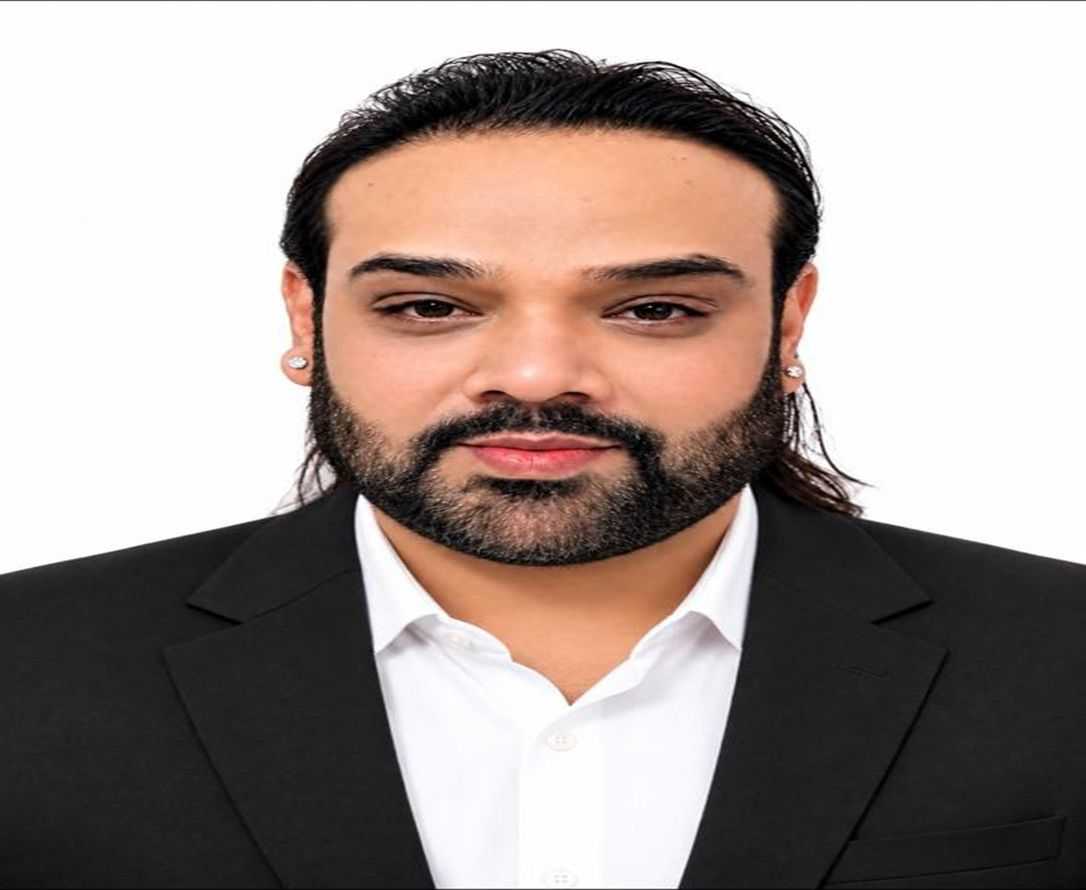
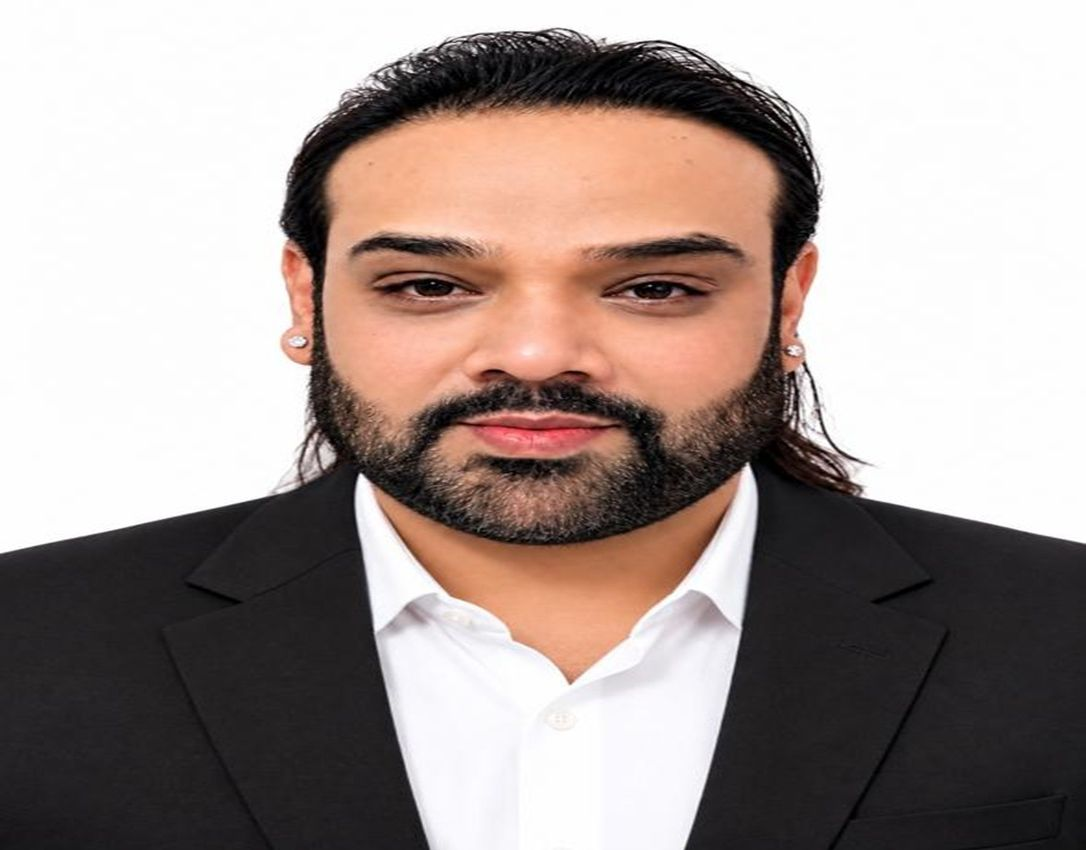
Simplify carousel to pure autoslide, tighten team heading, add hero image
- Carousel drops its prev/next buttons and dot indicators per request,
  now just auto-advances with a caption.
- Team page's top heading now uses a new .image-hero treatment (dark
  overlay over the Vishnu City Towers render) instead of a mostly-empty
  cream section.
- Re-cropped Bhaskar Dutt's photo with a larger margin — the previous
  crop landed right on the black-bar edge, leaving a compression seam.
- Verified stat caption/value font sizes are already uniform across
  all four Abaxis stat cells (10.88px / 27.2px), and confirmed no
  horizontal overflow on any of the five linked pages at 375px and
  768px viewports.
- Bump style.css cache-bust to v=41.

diff --git a/team.html b/team.html
@@ -1,10 +1,10 @@
-<!doctype html><html lang="en"><head><meta charset="utf-8"><meta name="viewport" content="width=device-width,initial-scale=1"><title>Our Team | Vishnu Developers & Infrastructure</title><meta name="description" content="Meet the leadership of Vishnu Developers & Infrastructure and the design & project consultancy partner behind Vishnu City."><link rel="stylesheet" href="style.css?v=39"></head><body data-page="team"><a class="skip-link" href="#main">Skip to content</a><div id="site-header"></div><main id="main">
+<!doctype html><html lang="en"><head><meta charset="utf-8"><meta name="viewport" content="width=device-width,initial-scale=1"><title>Our Team | Vishnu Developers & Infrastructure</title><meta name="description" content="Meet the leadership of Vishnu Developers & Infrastructure and the design & project consultancy partner behind Vishnu City."><link rel="stylesheet" href="style.css?v=41"></head><body data-page="team"><a class="skip-link" href="#main">Skip to content</a><div id="site-header"></div><main id="main">
 
-<section class="section"><div class="shell"><h2>The Visionaries Behind Vishnu City</h2></div></section>
+<section class="image-hero"><img src="assets/vishnu-city/Towers.jpeg" alt=""><div class="shell"><h2>The Visionaries Behind Vishnu City</h2></div></section>
 
 <section class="section sand"><div class="shell two-col reveal"><div class="media-frame site-photo" style="aspect-ratio:1086/1448"><img src="assets/vishnu-city/Suresh Dutt Sharma.jpeg" alt="Dr. Suresh Dutt Sharma"></div><div><span class="eyebrow">Managing Director &amp; Proprietor</span><h3>Dr. Suresh Dutt Sharma, MBBS</h3><p>Dr. Suresh Dutt Sharma leads Vishnu Developers &amp; Infrastructure with a strong vision for responsible development, quality construction, and long-term value creation. His leadership focuses on delivering projects with a commitment to reliability, excellence, and customer satisfaction.</p></div></div></section>
 
-<section class="section"><div class="shell two-col reveal"><div class="media-frame site-photo" style="aspect-ratio:1086/890"><img src="assets/vishnu-city/bhaskar-dutt-sharma.jpg" alt="Adv. Bhaskar Dutt Sharma"></div><div><span class="eyebrow">Director &amp; CEO</span><h3>Adv. Bhaskar Dutt Sharma, B.Com, PGDIB, MBA, LLB</h3><p>Adv. Bhaskar Dutt Sharma combines expertise in business management, law, and corporate administration. As Director &amp; CEO, he plays a key role in strategic decision-making, business development, project management, and organizational growth, with a strong emphasis on transparency and professional excellence.</p></div></div></section>
+<section class="section"><div class="shell two-col reveal"><div class="media-frame site-photo" style="aspect-ratio:1086/850"><img src="assets/vishnu-city/bhaskar-dutt-sharma.jpg" alt="Adv. Bhaskar Dutt Sharma"></div><div><span class="eyebrow">Director &amp; CEO</span><h3>Adv. Bhaskar Dutt Sharma, B.Com, PGDIB, MBA, LLB</h3><p>Adv. Bhaskar Dutt Sharma combines expertise in business management, law, and corporate administration. As Director &amp; CEO, he plays a key role in strategic decision-making, business development, project management, and organizational growth, with a strong emphasis on transparency and professional excellence.</p></div></div></section>
 
 <section class="section sand"><div class="shell two-col reveal"><div class="media-frame site-photo" style="aspect-ratio:692/1009"><img src="assets/vishnu-city/Dr Ishwari Sharma.jpeg" alt="Dr. Ishwari Sharma"></div><div><span class="eyebrow">Director</span><h3>Dr. Ishwari Sharma, MBBS, DGO</h3><p>Dr. Ishwari Sharma brings a disciplined and people-oriented approach to the organization. As a Director, she contributes to the company's growth, strategic planning, and commitment to maintaining high standards across its projects and operations.</p></div></div></section>
 
@@ -51,11 +51,8 @@
 <img class="carousel-slide" src="assets/vishnu-city/ircon3.jpg" alt="IRCON International Ltd — Renovation of 8 Floors, IRCON Tower, Gurugram" data-caption="IRCON International Ltd — Renovation of 8 Floors, IRCON Tower, Gurugram">
 <img class="carousel-slide" src="assets/vishnu-city/BPCL.jpg" alt="Bharat Petroleum Corporation Ltd — Bhopal Office Renovation" data-caption="Bharat Petroleum Corporation Ltd — Bhopal Office Renovation">
 <img class="carousel-slide" src="assets/vishnu-city/BPCL1.jpg" alt="Bharat Petroleum Corporation Ltd — Bhopal Office Renovation" data-caption="Bharat Petroleum Corporation Ltd — Bhopal Office Renovation">
-<button class="carousel-btn prev" type="button" aria-label="Previous project photo">‹</button>
-<button class="carousel-btn next" type="button" aria-label="Next project photo">›</button>
 </div>
 <p class="carousel-caption"></p>
-<div class="carousel-dots"></div>
 </div><div><span class="eyebrow">Track record</span><h2>Notable Abaxis Projects</h2><div class="table-wrap"><table class="area-table"><thead><tr><th>Client</th><th>Project</th></tr></thead><tbody>
 <tr><td>FM Supply Chain Pvt Ltd</td><td>Siemens MAG Industry &amp; Office, Taloja, Mumbai</td></tr>
 <tr><td>Hindustan Petroleum Corporation Ltd</td><td>HPCL Office, Narouji Nagar, Delhi</td></tr>

diff --git a/style.css b/style.css
@@ -36,15 +36,13 @@
 .carousel-viewport{position:relative;overflow:hidden;border-radius:8px;aspect-ratio:3/2;background:var(--sand);box-shadow:18px 18px 0 var(--champagne)}
 .carousel-slide{position:absolute;inset:0;width:100%;height:100%;object-fit:cover;opacity:0;transition:opacity .5s ease;pointer-events:none}
 .carousel-slide.active{opacity:1;pointer-events:auto}
-.carousel-btn{position:absolute;top:50%;transform:translateY(-50%);width:42px;height:42px;border-radius:50%;border:0;background:rgba(11,31,51,.75);color:#fff;font-size:1.3rem;line-height:1;display:grid;place-items:center;cursor:pointer;z-index:2;transition:background .2s}
-.carousel-btn.prev{left:14px}
-.carousel-btn.next{right:14px}
-.carousel-btn:hover{background:var(--gold)}
 .carousel-caption{margin-top:1.1rem;font-weight:600;color:var(--navy);text-align:center;min-height:1.4em}
-.carousel-dots{display:flex;justify-content:center;gap:.5rem;margin-top:.75rem}
-.carousel-dots button{width:9px;height:9px;border-radius:50%;border:0;background:var(--border);cursor:pointer;padding:0}
-.carousel-dots button.active{background:var(--gold)}
-@media(max-width:760px){.carousel-btn{width:34px;height:34px;font-size:1rem}}
+.image-hero{position:relative;padding:6rem 0;overflow:hidden;background:var(--navy)}
+.image-hero img{position:absolute;inset:0;width:100%;height:100%;object-fit:cover;opacity:.45}
+.image-hero:after{content:"";position:absolute;inset:0;background:linear-gradient(180deg,rgba(11,31,51,.55),rgba(11,31,51,.85))}
+.image-hero .shell{position:relative;z-index:1}
+.image-hero h2{color:#fff;margin:0}
+@media(max-width:760px){.image-hero{padding:4rem 0}}
 @keyframes heroScale{from{transform:scale(1) translate(0,0)}to{transform:scale(1.12) translate(-2%,-2%)}}@media(max-width:1100px){.site-header nav{position:absolute;top:100%;left:0;right:0;background:var(--ivory);display:none;flex-direction:column;align-items:stretch;padding:1rem 24px;border-bottom:1px solid var(--border)}.site-header nav.open{display:flex}.site-header nav a{padding:.7rem}.menu-toggle{display:block;margin-left:auto}.grid-4{grid-template-columns:repeat(2,1fr)}}@media(max-width:760px){body{padding-top:74px}.footer{padding-bottom:62px}.footer-nav{flex-wrap:wrap;height:auto;padding:.75rem 0;row-gap:.5rem}.footer-nav a{padding:.35rem .65rem;font-size:.82rem;border-right:0}.shell{width:min(100% - 30px,1280px)}.nav-inner{height:74px}.brand-logo img{width:46px;height:46px}.brand-title .brand-full{display:none}.brand-title .brand-short{display:block}.hero{min-height:calc(100svh - 74px)}.hero-content{padding:5rem 0 2rem}.hero:after{background:linear-gradient(90deg,rgba(11,31,51,.92),rgba(11,31,51,.53))}.hero-actions,.cta .shell{align-items:stretch;flex-direction:column}.cta-actions{flex-direction:column;width:100%}.cta-actions .btn{width:100%}.hero-facts{overflow-x:auto}.hero-facts span{min-width:145px}.trustbar .shell{overflow-x:auto;display:flex}.trustbar span{min-width:160px}.section-head,.two-col,.contact-layout,.plan-panel{grid-template-columns:1fr}.section-head{gap:1rem;margin-bottom:2.3rem}.media-frame{min-height:420px}.stats{grid-template-columns:repeat(2,1fr)}.stat:nth-child(2){border-right:0}.stat:nth-child(-n+2){border-bottom:1px solid var(--border)}.grid-2,.grid-3,.grid-4,.grid-6{grid-template-columns:1fr}.timeline{grid-template-columns:1fr;border-top:0;border-left:1px solid var(--gold);margin-left:.4rem}.timeline div{padding:0 0 1.5rem 1.5rem}.timeline div:before{left:-5px;top:.55rem}.plan-visual{min-height:420px}.plan-copy{padding:2rem}.gallery-grid{display:flex;overflow-x:auto;scroll-snap-type:x mandatory}.gallery-item,.gallery-item:nth-child(n){min-width:85%;height:380px;grid-column:auto;grid-row:auto;scroll-snap-align:start}.feature-image{padding:1rem;min-height:460px;background-position:center}.float-cards{grid-template-columns:1fr}.float-cards .card:nth-child(n+3){display:none}.lead-form{grid-template-columns:1fr}.field.full,.form-status{grid-column:auto}.mobile-cta{position:fixed;z-index:100;left:0;right:0;bottom:0;height:58px;display:grid;grid-template-columns:1fr 1fr 1.3fr;background:var(--ivory);box-shadow:0 -5px 20px rgba(0,0,0,.12);padding-bottom:env(safe-area-inset-bottom)}.mobile-cta a{display:grid;place-items:center;font-size:.72rem;font-weight:700;text-transform:uppercase;border-right:1px solid var(--border)}.mobile-cta .main{background:var(--gold);color:#fff}.page-hero{padding:5rem 0}}@media(prefers-reduced-motion:reduce){*{scroll-behavior:auto!important;animation:none!important;transition:none!important}.reveal{opacity:1;transform:none}}
 
 /* Premium refinement pass */

diff --git a/residences.html b/residences.html
@@ -1,1 +1,1 @@
-<!doctype html><html lang="en"><head><meta charset="utf-8"><meta name="viewport" content="width=device-width,initial-scale=1"><title>Residences at Vishnu City</title><meta name="description" content="Explore the 3BHK residences planned for comfortable family living at Vishnu City."><link rel="stylesheet" href="style.css?v=39"></head><body data-page="residences"><a class="skip-link" href="#main">Skip to content</a><div id="site-header"></div><main id="main"><section class="page-hero"><div class="shell"><div class="breadcrumb"><a href="index.html">Home</a> / Residences</div><span class="eyebrow">Vishnu City residences</span><h1>Room to Live.<br><em>Space to Belong.</em></h1><p>Considered family homes with functional planning, comfortable proportions and a refined interior character.</p></div></section><section class="section"><div class="shell two-col"><div class="media-frame"><img src="assets/vishnu-city/living.jpg" alt="3BHK living space artistic representation"></div><div><span class="eyebrow">3BHK Residence</span><h2>1395.40 sq. ft.</h2><p>Spacious living and dining · Three bedrooms · Functional kitchen · Balconies · Lift access · Stilt parking</p><a class="btn btn-gold" href="floor-plans.html">View Floor Plan</a></div></div></section><section class="section sand"><div class="shell two-col"><div><span class="eyebrow">Interior character</span><h2>Warm, Calm and Considered</h2><p>Interior imagery communicates the intended atmosphere and is an artistic representation. Final materials and specifications remain subject to confirmation.</p></div><div class="media-frame"><img src="assets/vishnu-city/dining.jpg" alt="Dining space artistic representation"></div></div></section><section class="cta"><div class="shell"><div><h2>Choose the Residence That Fits Your Family</h2><p>Request the latest confirmed configuration details from our project team.</p></div><a class="btn btn-gold" href="contact.html">Talk to Our Team</a></div></section></main><div id="site-footer"></div><div id="mobile-cta"></div><script src="config.js"></script><script src="script.js"></script></body></html>
+<!doctype html><html lang="en"><head><meta charset="utf-8"><meta name="viewport" content="width=device-width,initial-scale=1"><title>Residences at Vishnu City</title><meta name="description" content="Explore the 3BHK residences planned for comfortable family living at Vishnu City."><link rel="stylesheet" href="style.css?v=41"></head><body data-page="residences"><a class="skip-link" href="#main">Skip to content</a><div id="site-header"></div><main id="main"><section class="page-hero"><div class="shell"><div class="breadcrumb"><a href="index.html">Home</a> / Residences</div><span class="eyebrow">Vishnu City residences</span><h1>Room to Live.<br><em>Space to Belong.</em></h1><p>Considered family homes with functional planning, comfortable proportions and a refined interior character.</p></div></section><section class="section"><div class="shell two-col"><div class="media-frame"><img src="assets/vishnu-city/living.jpg" alt="3BHK living space artistic representation"></div><div><span class="eyebrow">3BHK Residence</span><h2>1395.40 sq. ft.</h2><p>Spacious living and dining · Three bedrooms · Functional kitchen · Balconies · Lift access · Stilt parking</p><a class="btn btn-gold" href="floor-plans.html">View Floor Plan</a></div></div></section><section class="section sand"><div class="shell two-col"><div><span class="eyebrow">Interior character</span><h2>Warm, Calm and Considered</h2><p>Interior imagery communicates the intended atmosphere and is an artistic representation. Final materials and specifications remain subject to confirmation.</p></div><div class="media-frame"><img src="assets/vishnu-city/dining.jpg" alt="Dining space artistic representation"></div></div></section><section class="cta"><div class="shell"><div><h2>Choose the Residence That Fits Your Family</h2><p>Request the latest confirmed configuration details from our project team.</p></div><a class="btn btn-gold" href="contact.html">Talk to Our Team</a></div></section></main><div id="site-footer"></div><div id="mobile-cta"></div><script src="config.js"></script><script src="script.js"></script></body></html>

diff --git a/about.html b/about.html
@@ -1,4 +1,4 @@
-<!doctype html><html lang="en"><head><meta charset="utf-8"><meta name="viewport" content="width=device-width,initial-scale=1"><title>About Vishnu Developers & Infrastructure</title><meta name="description" content="Learn about Vishnu Developers & Infrastructure — our legacy, vision and mission."><link rel="stylesheet" href="style.css?v=39"></head><body data-page="about"><a class="skip-link" href="#main">Skip to content</a><div id="site-header"></div><main id="main">
+<!doctype html><html lang="en"><head><meta charset="utf-8"><meta name="viewport" content="width=device-width,initial-scale=1"><title>About Vishnu Developers & Infrastructure</title><meta name="description" content="Learn about Vishnu Developers & Infrastructure — our legacy, vision and mission."><link rel="stylesheet" href="style.css?v=41"></head><body data-page="about"><a class="skip-link" href="#main">Skip to content</a><div id="site-header"></div><main id="main">
 <section class="section"><div class="shell two-col reveal" style="align-items:start">
 <div><div class="media-frame legacy-image" style="min-height:0;aspect-ratio:1/1"><img src="assets/about/legacy-collage.jpg" alt="Vishnu Infra legacy — site plan, founders and Vishnu Palace cinema"></div><div class="card" style="margin-top:1.5rem"><h3>A Look Back</h3><p><strong>A. Site Plan</strong> — the original masterplan layout envisioned for the development.</p><p><strong>B. Vintage Graduation Photo</strong> — the founders whose vision and values continue to shape Vishnu Developers &amp; Infrastructure today.</p><p><strong>C. Cinema Building Exterior</strong> — Vishnu Palace and Zehnabi Cinema, among the group's earliest landmark properties.</p></div></div>
 <div><span class="eyebrow">About Us</span><h2>Our Legacy</h2><p>Vishnu Developers & Infrastructure is a forward-thinking real estate development company committed to creating exceptional residential, commercial, healthcare, and mixed-use developments that enrich lives, generate lasting value, and redefine luxury living.</p><p>Founded with a vision to transform urban landscapes through innovation and excellence, the company combines thoughtful planning, contemporary design, quality construction, and sustainable development practices to deliver projects that meet the evolving aspirations of homeowners, businesses, and investors.</p><p>Our expertise spans the complete development lifecycle, including land acquisition, project planning, design development, construction management, and property delivery. Every project is executed with meticulous attention to quality, safety, regulatory compliance, and timely completion, ensuring long-term value and customer satisfaction.</p><p>At Vishnu Developers & Infrastructure, integrity, transparency, and trust form the foundation of our business. Our experienced team works closely with leading architects, engineers, consultants, and construction professionals to create developments that are both functional and aesthetically distinguished. We believe that every project should contribute positively to the communities in which we build, reflecting our guiding philosophy:</p><p class="highlight">"We Nurture Your Dreams."</p><p>As we continue to grow, our focus remains on delivering sustainable, innovative, and high-quality developments while building enduring relationships with customers, investors, partners, and communities. Through excellence in execution and continuous improvement, we aspire to be one of the most trusted and respected names in the real estate industry.</p></div>

diff --git a/floor-plans.html b/floor-plans.html
@@ -1,1 +1,1 @@
-<!doctype html><html lang="en"><head><meta charset="utf-8"><meta name="viewport" content="width=device-width,initial-scale=1"><title>Vishnu City Floor Plans</title><meta name="description" content="Review verified and pending floor-plan information for Vishnu City residences."><link rel="stylesheet" href="style.css?v=39"></head><body data-page="plans"><a class="skip-link" href="#main">Skip to content</a><div id="site-header"></div><main id="main"><section class="page-hero"><div class="shell"><div class="breadcrumb"><a href="index.html">Home</a> / Floor Plans</div><span class="eyebrow">Residence planning</span><h1>Thoughtfully<br><em>Planned Spaces.</em></h1><p>Layouts created to balance privacy, functionality and comfortable family living.</p></div></section><section class="section dark"><div class="shell"><div class="plan-tabs" role="tablist"><button data-plan="3bhk">3BHK</button><button data-plan="stilt">Stilt Floor</button><button data-plan="typical">Typical Floor</button><button data-plan="terrace">Terrace</button></div><div id="plan-panel" class="plan-panel"></div></div></section><section class="cta"><div class="shell"><div><h2>Need Help Understanding a Plan?</h2><p>Arrange a private conversation with the project team.</p></div><a class="btn btn-gold" href="contact.html#visit">Request a Consultation</a></div></section></main><div id="site-footer"></div><div id="mobile-cta"></div><dialog id="lightbox"><div class="modal-inner"><button class="modal-close" aria-label="Close">×</button><img alt=""><h3 data-modal-title></h3><p data-modal-copy></p></div></dialog><script src="config.js"></script><script src="script.js"></script></body></html>
+<!doctype html><html lang="en"><head><meta charset="utf-8"><meta name="viewport" content="width=device-width,initial-scale=1"><title>Vishnu City Floor Plans</title><meta name="description" content="Review verified and pending floor-plan information for Vishnu City residences."><link rel="stylesheet" href="style.css?v=41"></head><body data-page="plans"><a class="skip-link" href="#main">Skip to content</a><div id="site-header"></div><main id="main"><section class="page-hero"><div class="shell"><div class="breadcrumb"><a href="index.html">Home</a> / Floor Plans</div><span class="eyebrow">Residence planning</span><h1>Thoughtfully<br><em>Planned Spaces.</em></h1><p>Layouts created to balance privacy, functionality and comfortable family living.</p></div></section><section class="section dark"><div class="shell"><div class="plan-tabs" role="tablist"><button data-plan="3bhk">3BHK</button><button data-plan="stilt">Stilt Floor</button><button data-plan="typical">Typical Floor</button><button data-plan="terrace">Terrace</button></div><div id="plan-panel" class="plan-panel"></div></div></section><section class="cta"><div class="shell"><div><h2>Need Help Understanding a Plan?</h2><p>Arrange a private conversation with the project team.</p></div><a class="btn btn-gold" href="contact.html#visit">Request a Consultation</a></div></section></main><div id="site-footer"></div><div id="mobile-cta"></div><dialog id="lightbox"><div class="modal-inner"><button class="modal-close" aria-label="Close">×</button><img alt=""><h3 data-modal-title></h3><p data-modal-copy></p></div></dialog><script src="config.js"></script><script src="script.js"></script></body></html>

diff --git a/vishnu-city.html b/vishnu-city.html
@@ -1,4 +1,4 @@
-<!doctype html><html lang="en"><head><meta charset="utf-8"><meta name="viewport" content="width=device-width,initial-scale=1"><title>Vishnu City Project | Vishnu Developers</title><meta name="description" content="Discover Vishnu City — site plan, phase details, floor plans and architectural imaging."><link rel="stylesheet" href="style.css?v=39"></head><body data-page="project"><a class="skip-link" href="#main">Skip to content</a><div id="site-header"></div><main id="main">
+<!doctype html><html lang="en"><head><meta charset="utf-8"><meta name="viewport" content="width=device-width,initial-scale=1"><title>Vishnu City Project | Vishnu Developers</title><meta name="description" content="Discover Vishnu City — site plan, phase details, floor plans and architectural imaging."><link rel="stylesheet" href="style.css?v=41"></head><body data-page="project"><a class="skip-link" href="#main">Skip to content</a><div id="site-header"></div><main id="main">
 
 <section class="section"><div class="shell"><span class="eyebrow">Vishnu City</span><h2>About Vishnu City</h2><p>Vishnu City is a thoughtfully planned premium residential community developed by Vishnu Developers & Infrastructure, designed to offer a harmonious blend of modern living, comfort, security, and sustainable development. Strategically located in a well-connected and rapidly growing neighborhood, the project is envisioned as a landmark residential destination for families seeking a refined lifestyle and long-term value.</p><p>Spread across six residential blocks, Vishnu City comprises 24 exclusive 3BHK residences, with each block featuring stilt parking, a ground floor, and three upper floors. Every residence is carefully designed to maximize natural light, ventilation, privacy, and functionality while maintaining contemporary architectural aesthetics.</p><p>The development follows a comprehensive master plan that integrates residential living with open green spaces, community facilities, pedestrian-friendly pathways, and modern infrastructure. From its initial phase of land planning and infrastructure development to the final phase of landscaping, recreational amenities, and community spaces, every aspect of Vishnu City is being developed with a focus on quality, sustainability, and long-term value creation.</p><p>With spacious homes, organized circulation, dedicated parking, landscaped environments, and future-ready infrastructure, Vishnu City aims to create a vibrant residential ecosystem where families can live, grow, and thrive for generations.</p>
 </div></section>

diff --git a/terms.html b/terms.html
@@ -1,1 +1,1 @@
-<!doctype html><html lang="en"><head><meta charset="utf-8"><meta name="viewport" content="width=device-width,initial-scale=1"><title>Terms & Conditions | Vishnu Developers</title><link rel="stylesheet" href="style.css?v=39"></head><body><a class="skip-link" href="#main">Skip to content</a><div id="site-header"></div><main id="main"><section class="page-hero"><div class="shell"><div class="breadcrumb"><a href="index.html">Home</a> / Terms & Conditions</div><h1>Terms & Conditions</h1><p>This page is a content placeholder pending legal review.</p></div></section><section class="section"><div class="shell"><h2>Website Terms</h2><p>Project information, plans, specifications and artistic representations are indicative and subject to change and final confirmation by the developer. Complete terms must be reviewed by the developer’s authorised legal adviser before publication.</p></div></section></main><div id="site-footer"></div><div id="mobile-cta"></div><script src="config.js"></script><script src="script.js"></script></body></html>
+<!doctype html><html lang="en"><head><meta charset="utf-8"><meta name="viewport" content="width=device-width,initial-scale=1"><title>Terms & Conditions | Vishnu Developers</title><link rel="stylesheet" href="style.css?v=41"></head><body><a class="skip-link" href="#main">Skip to content</a><div id="site-header"></div><main id="main"><section class="page-hero"><div class="shell"><div class="breadcrumb"><a href="index.html">Home</a> / Terms & Conditions</div><h1>Terms & Conditions</h1><p>This page is a content placeholder pending legal review.</p></div></section><section class="section"><div class="shell"><h2>Website Terms</h2><p>Project information, plans, specifications and artistic representations are indicative and subject to change and final confirmation by the developer. Complete terms must be reviewed by the developer’s authorised legal adviser before publication.</p></div></section></main><div id="site-footer"></div><div id="mobile-cta"></div><script src="config.js"></script><script src="script.js"></script></body></html>

diff --git a/privacy-policy.html b/privacy-policy.html
@@ -1,1 +1,1 @@
-<!doctype html><html lang="en"><head><meta charset="utf-8"><meta name="viewport" content="width=device-width,initial-scale=1"><title>Privacy Policy | Vishnu Developers</title><link rel="stylesheet" href="style.css?v=39"></head><body><a class="skip-link" href="#main">Skip to content</a><div id="site-header"></div><main id="main"><section class="page-hero"><div class="shell"><div class="breadcrumb"><a href="index.html">Home</a> / Privacy Policy</div><h1>Privacy Policy</h1><p>This page is a content placeholder pending legal review.</p></div></section><section class="section"><div class="shell"><h2>Information Notice</h2><p>Before publication, the developer’s authorised legal adviser should provide or approve the complete privacy policy, including data collection, processing, retention and contact procedures.</p></div></section></main><div id="site-footer"></div><div id="mobile-cta"></div><script src="config.js"></script><script src="script.js"></script></body></html>
+<!doctype html><html lang="en"><head><meta charset="utf-8"><meta name="viewport" content="width=device-width,initial-scale=1"><title>Privacy Policy | Vishnu Developers</title><link rel="stylesheet" href="style.css?v=41"></head><body><a class="skip-link" href="#main">Skip to content</a><div id="site-header"></div><main id="main"><section class="page-hero"><div class="shell"><div class="breadcrumb"><a href="index.html">Home</a> / Privacy Policy</div><h1>Privacy Policy</h1><p>This page is a content placeholder pending legal review.</p></div></section><section class="section"><div class="shell"><h2>Information Notice</h2><p>Before publication, the developer’s authorised legal adviser should provide or approve the complete privacy policy, including data collection, processing, retention and contact procedures.</p></div></section></main><div id="site-footer"></div><div id="mobile-cta"></div><script src="config.js"></script><script src="script.js"></script></body></html>

diff --git a/gallery.html b/gallery.html
@@ -1,4 +1,4 @@
-<!doctype html><html lang="en"><head><meta charset="utf-8"><meta name="viewport" content="width=device-width,initial-scale=1"><title>Gallery | Vishnu City</title><meta name="description" content="View the Vishnu City architectural and interior gallery."><link rel="stylesheet" href="style.css?v=39"></head><body data-page="gallery"><a class="skip-link" href="#main">Skip to content</a><div id="site-header"></div><main id="main">
+<!doctype html><html lang="en"><head><meta charset="utf-8"><meta name="viewport" content="width=device-width,initial-scale=1"><title>Gallery | Vishnu City</title><meta name="description" content="View the Vishnu City architectural and interior gallery."><link rel="stylesheet" href="style.css?v=41"></head><body data-page="gallery"><a class="skip-link" href="#main">Skip to content</a><div id="site-header"></div><main id="main">
 <section class="page-hero"><div class="shell"><div class="breadcrumb"><a href="index.html">Home</a> / Gallery</div><span class="eyebrow">Project gallery</span><h1>Spaces Imagined<br><em>with Quiet Confidence.</em></h1><p>Explore the architectural character, interiors and everyday experiences envisioned for Vishnu City.</p></div></section>
 <section class="section"><div class="shell"><div class="section-head"><div><span class="eyebrow">Vishnu City</span><h2>Architecture & Interiors</h2></div><p>Select any image to view it larger. Interior imagery is representational and final specifications may vary.</p></div><div class="gallery-grid">
 <button class="gallery-item" data-modal-image="assets/vishnu-city/hero.jpg" data-modal-title="Vishnu City Elevation"><img src="assets/vishnu-city/hero.jpg" alt="Vishnu City elevation"><span>Elevation</span></button>

diff --git a/script.js b/script.js
@@ -79,33 +79,15 @@
   document.querySelectorAll("[data-carousel]").forEach(root => {
     const slides = [...root.querySelectorAll(".carousel-slide")];
     const caption = root.querySelector(".carousel-caption");
-    const dotsWrap = root.querySelector(".carousel-dots");
     if (!slides.length) return;
-    let idx = 0, timer;
-    slides.forEach((slide, i) => {
-      const dot = document.createElement("button");
-      dot.type = "button";
-      dot.setAttribute("aria-label", `Go to photo ${i + 1}`);
-      dot.addEventListener("click", () => show(i));
-      dotsWrap.appendChild(dot);
-    });
-    const dots = [...dotsWrap.children];
+    let idx = 0;
     function show(i) {
       idx = (i + slides.length) % slides.length;
       slides.forEach((s, j) => s.classList.toggle("active", j === idx));
-      dots.forEach((d, j) => d.classList.toggle("active", j === idx));
       caption.textContent = slides[idx].dataset.caption || "";
     }
-    function restart() {
-      clearInterval(timer);
-      timer = setInterval(() => show(idx + 1), 4500);
-    }
-    root.querySelector(".carousel-btn.prev")?.addEventListener("click", () => { show(idx - 1); restart(); });
-    root.querySelector(".carousel-btn.next")?.addEventListener("click", () => { show(idx + 1); restart(); });
-    root.addEventListener("mouseenter", () => clearInterval(timer));
-    root.addEventListener("mouseleave", restart);
     show(0);
-    restart();
+    setInterval(() => show(idx + 1), 4500);
   });
 
   const dialog = document.querySelector("#lightbox");

diff --git a/index.html b/index.html
@@ -1,4 +1,4 @@
-<!doctype html><html lang="en"><head><meta charset="utf-8"><meta name="viewport" content="width=device-width,initial-scale=1"><title>Vishnu City | Premium 3BHK Residences</title><meta name="description" content="Explore Vishnu City by Vishnu Developers & Infrastructure—premium 3BHK residences with gated security, Vastu-oriented planning, lift access and stilt parking."><link rel="stylesheet" href="style.css?v=39"></head>
+<!doctype html><html lang="en"><head><meta charset="utf-8"><meta name="viewport" content="width=device-width,initial-scale=1"><title>Vishnu City | Premium 3BHK Residences</title><meta name="description" content="Explore Vishnu City by Vishnu Developers & Infrastructure—premium 3BHK residences with gated security, Vastu-oriented planning, lift access and stilt parking."><link rel="stylesheet" href="style.css?v=41"></head>
 <body data-page="home"><a class="skip-link" href="#main">Skip to content</a>
 <div class="loader" aria-hidden="true"><div class="loader-box"><img src="assets/vishnu-logo-small.png" width="140" height="140" alt=""><div class="loader-track"><i></i></div><b>0%</b></div></div><div id="site-header"></div>
 <main id="main">

diff --git a/contact.html b/contact.html
@@ -1,4 +1,4 @@
-<!doctype html><html lang="en"><head><meta charset="utf-8"><meta name="viewport" content="width=device-width,initial-scale=1"><title>Contact Vishnu Developers & Infrastructure</title><meta name="description" content="Contact Vishnu Developers & Infrastructure or schedule a private Vishnu City site visit."><link rel="stylesheet" href="style.css?v=39"></head><body data-page="contact"><a class="skip-link" href="#main">Skip to content</a><div id="site-header"></div><main id="main">
+<!doctype html><html lang="en"><head><meta charset="utf-8"><meta name="viewport" content="width=device-width,initial-scale=1"><title>Contact Vishnu Developers & Infrastructure</title><meta name="description" content="Contact Vishnu Developers & Infrastructure or schedule a private Vishnu City site visit."><link rel="stylesheet" href="style.css?v=41"></head><body data-page="contact"><a class="skip-link" href="#main">Skip to content</a><div id="site-header"></div><main id="main">
 
 <section class="section" style="padding-bottom:0"><div class="shell"><h2>Vishnu City, Baraut</h2></div></section>
 
